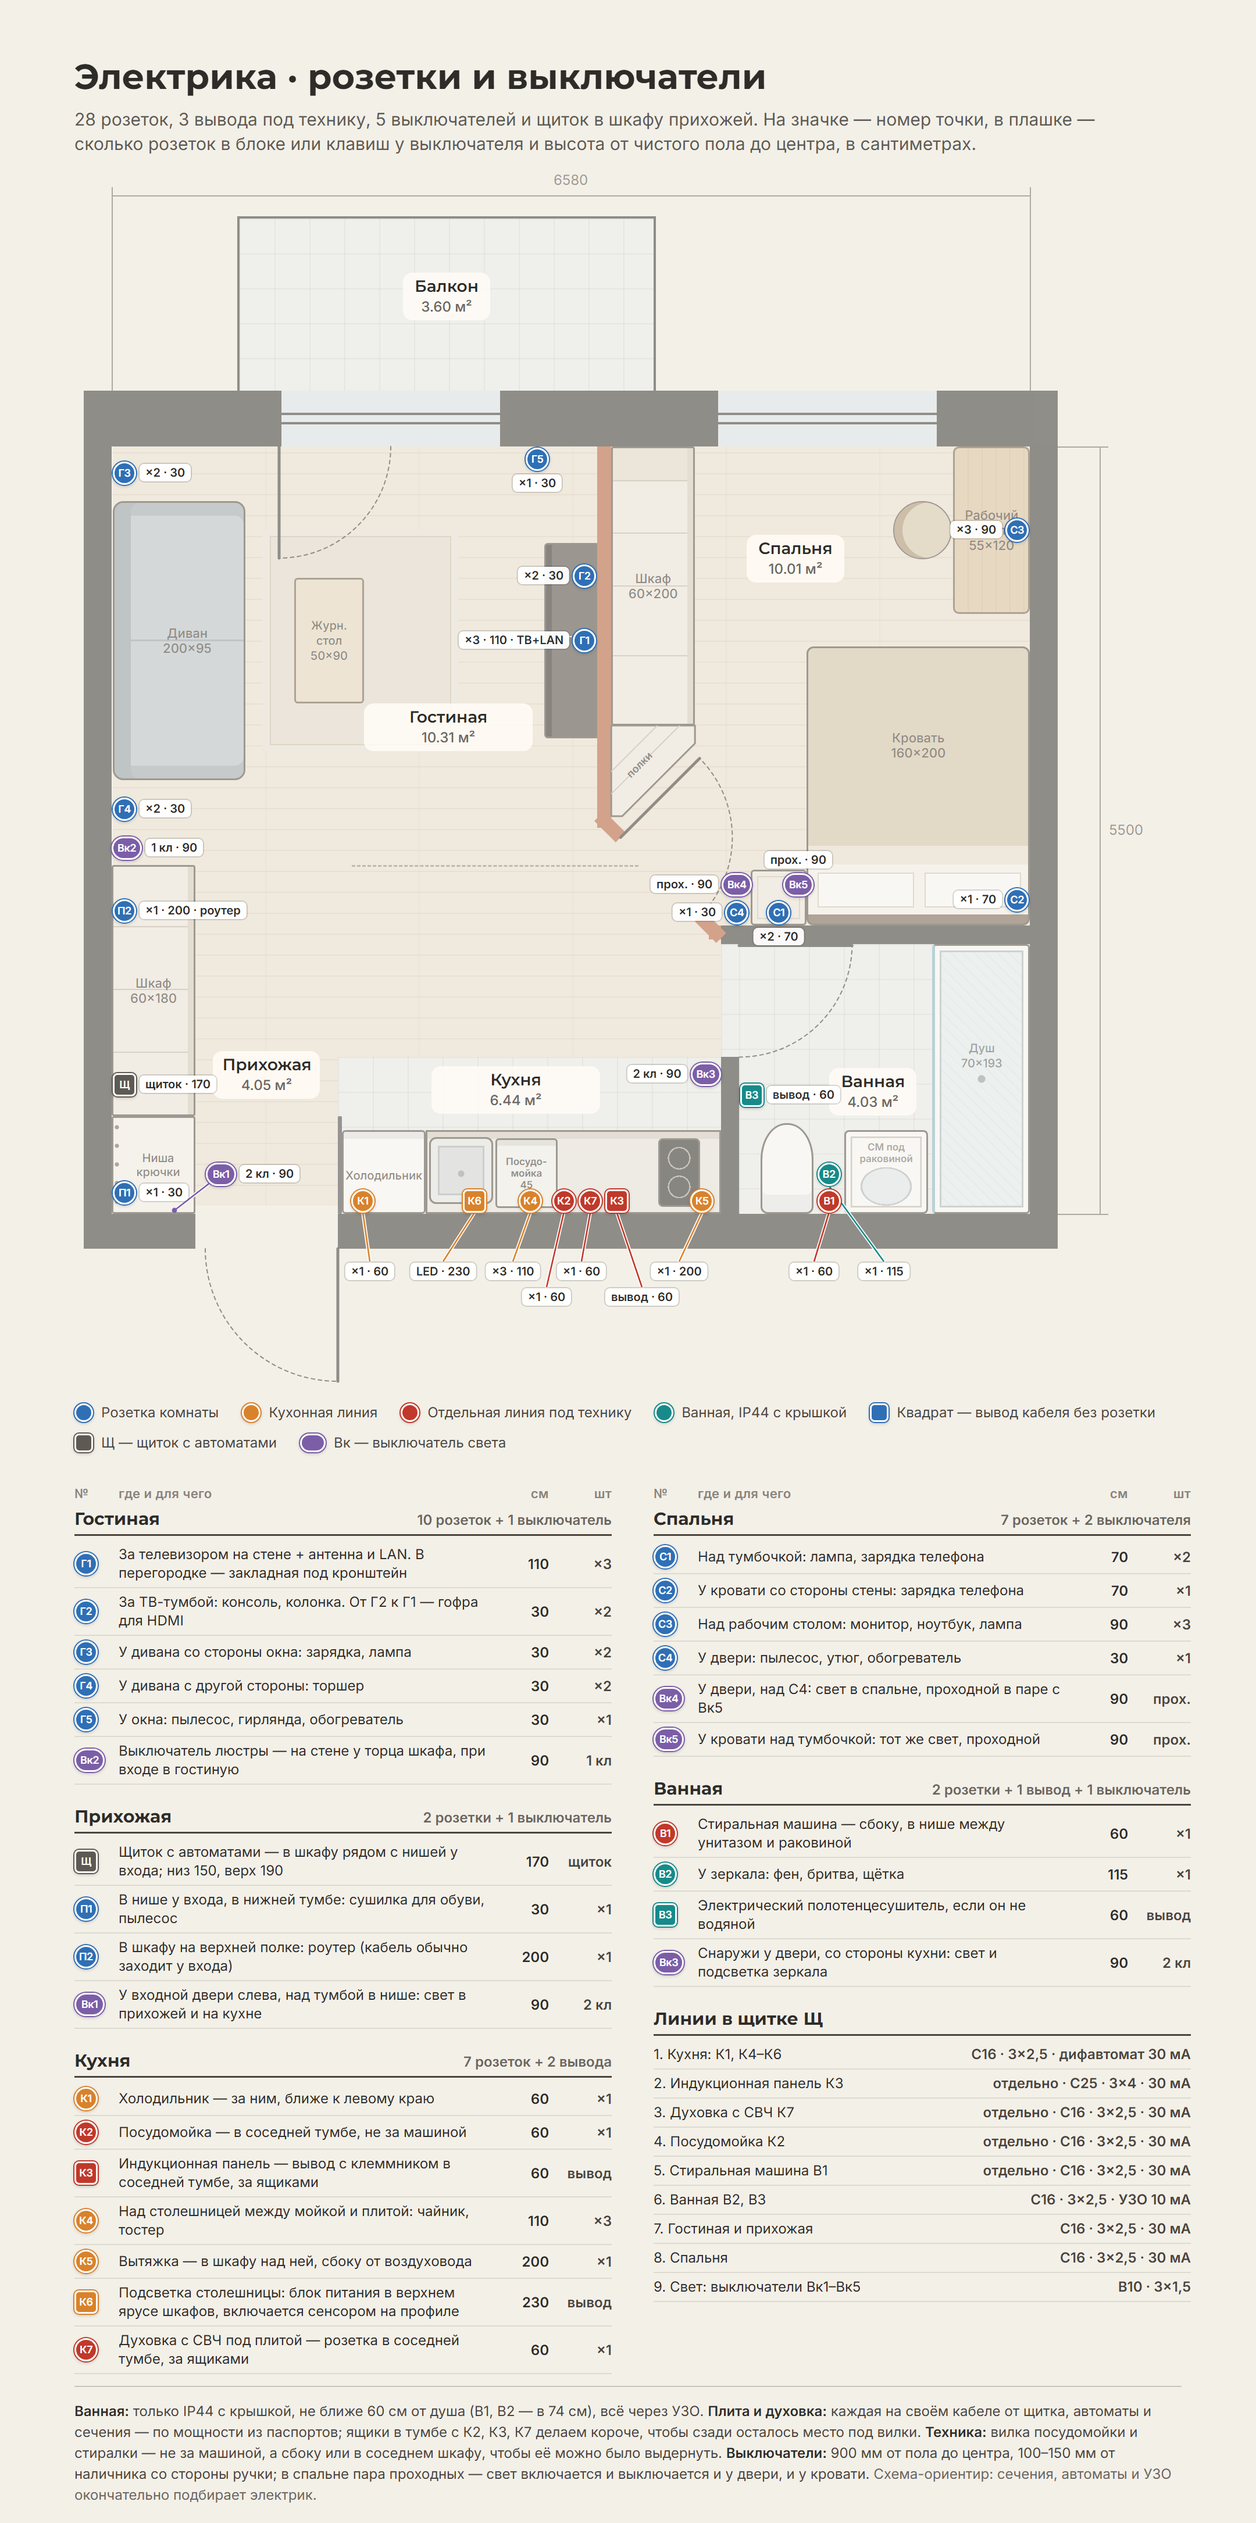
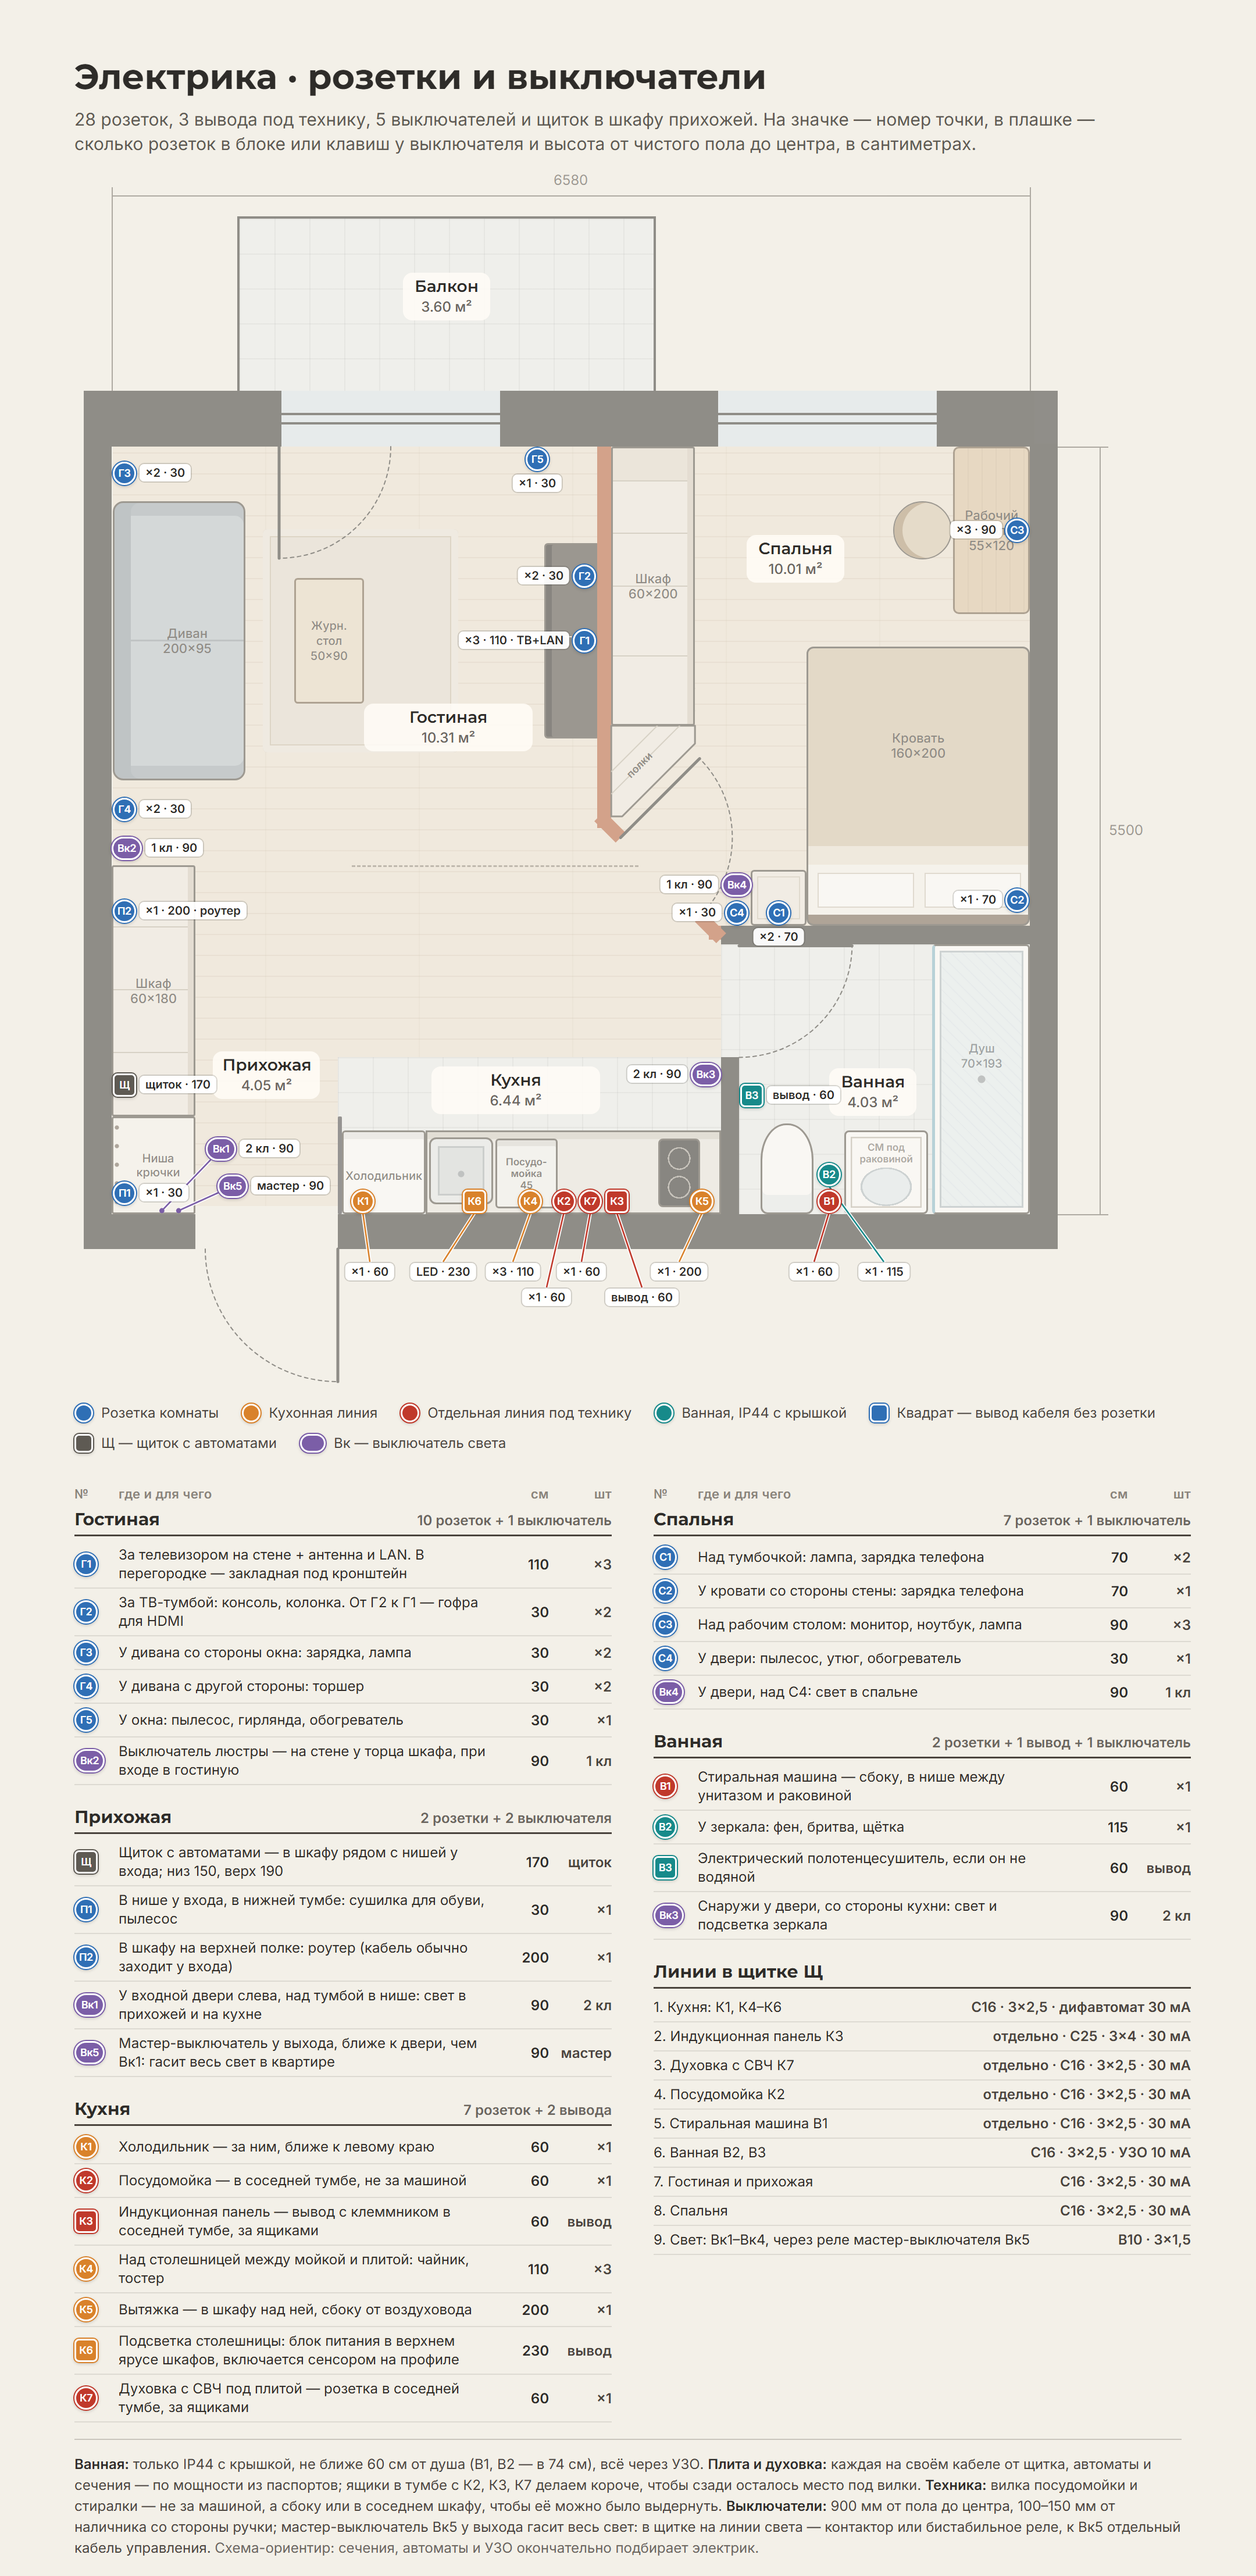
Мастер-выключатель у входа, без проходных в спальне
- У входной двери рядом с Вк1 мастер-выключатель Вк5: гасит весь свет через реле в щитке
- В спальне один выключатель Вк4 у двери, выключатель у кровати убран
- План розеток, развёртки стен и README обновлены

diff --git a/electric.html b/electric.html
@@ -37,7 +37,7 @@ section p{margin:0 0 12px;color:var(--muted);font-size:14px}
 <p class="lead">28 розеток, 3 вывода под технику, 5 выключателей и щиток в шкафу прихожей. Номера на плане и на развёртках стен совпадают. Нажмите на картинку, чтобы открыть её в полном размере.</p>
 <nav class="tabs" aria-label="Разделы"><a href="#plan">План</a><a href="#steny">На стенах</a><a href="3d.html#obzor">3D-модель</a></nav>
 <section id="plan"><h2>Где будут розетки и выключатели</h2><p>На значке — номер точки, в плашке — сколько розеток в блоке или клавиш у выключателя и высота от пола в сантиметрах.</p>
-<a class="board" href="electric/rozetki.png"><img src="electric/rozetki.png" width="1080" height="2170" alt="План квартиры с розетками и выключателями: номер точки, число розеток или клавиш и высота от пола; ниже таблица по комнатам и линии в щитке" decoding="async"></a></section>
+<a class="board" href="electric/rozetki.png"><img src="electric/rozetki.png" width="1080" height="2215" alt="План квартиры с розетками и выключателями: номер точки, число розеток или клавиш и высота от пола; ниже таблица по комнатам и линии в щитке" decoding="async"></a></section>
 <section id="steny"><h2>Розетки и выключатели на стенах</h2><p>Развёртки стен, вид из комнаты. Размеры в миллиметрах: высота от чистого пола до центра и расстояние от угла.</p>
 <a class="board" href="electric/steny.png"><img src="electric/steny.png" width="1080" height="2620" alt="Развёртки одиннадцати стен с розетками, выключателями, мебелью и размерами в миллиметрах" loading="lazy" decoding="async"></a></section>
 </main>

diff --git a/README.md b/README.md
@@ -33,7 +33,7 @@
 
 ## Электрика
 
-28 розеток, 3 вывода (индукционная панель, подсветка столешницы, полотенцесушитель), 5 выключателей и щиток в шкафу прихожей. Выключатели на высоте 90 см: у входной двери — прихожая и кухня, у шкафа — гостиная, у двери ванной — свет и зеркало, в спальне пара проходных у двери и у кровати. Номера на плане и на развёртках совпадают. Схема — ориентир: сечения, автоматы и УЗО окончательно подбирает электрик.
+28 розеток, 3 вывода (индукционная панель, подсветка столешницы, полотенцесушитель), 5 выключателей и щиток в шкафу прихожей. Выключатели на высоте 90 см: у входной двери — прихожая и кухня, у шкафа — гостиная, у двери ванной — свет и зеркало, у двери спальни — свет в спальне. У выхода мастер-выключатель: одной клавишей гасит весь свет в квартире. Номера на плане и на развёртках совпадают. Схема — ориентир: сечения, автоматы и УЗО окончательно подбирает электрик.
 
 ![Где будут розетки и выключатели](electric/rozetki.png)
 
